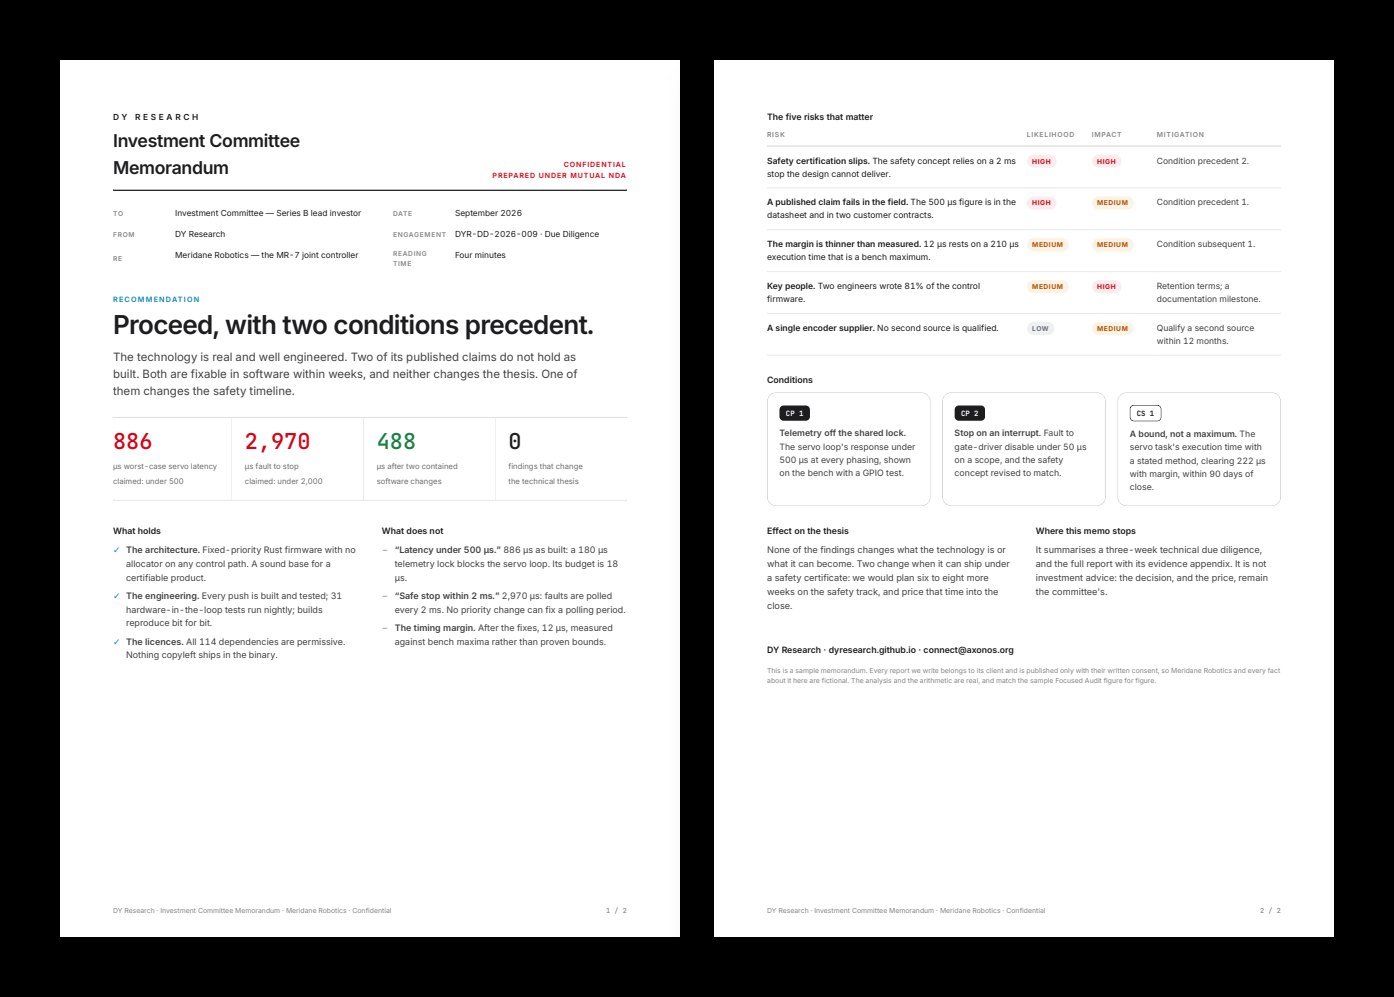
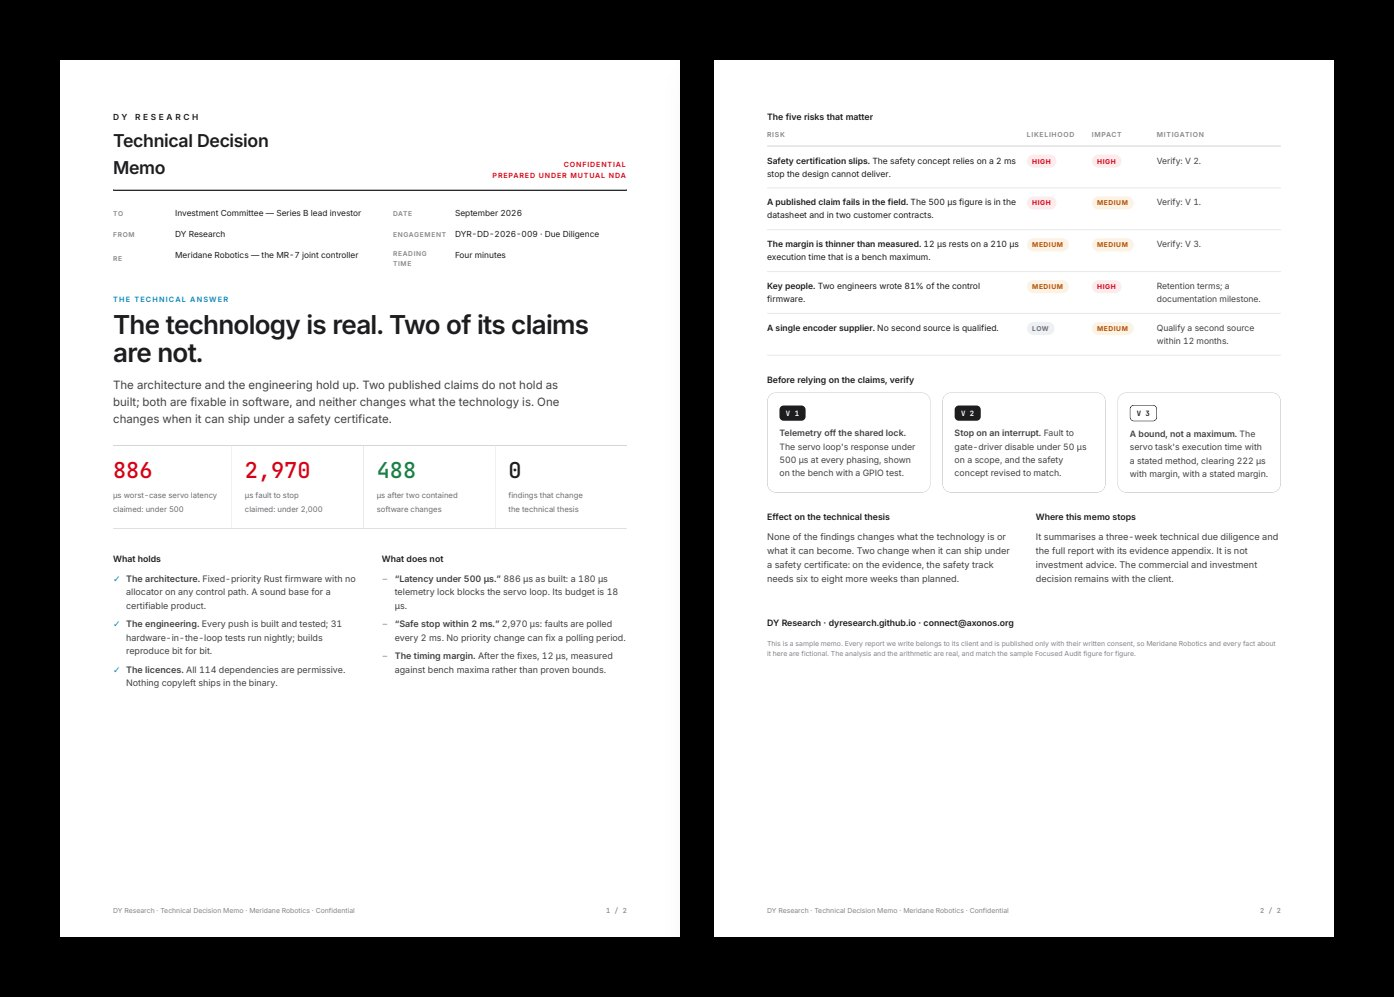
Site v2.0, first wave: the hero asks before it sells
The first screen now holds the method, not only the promise. "Can you spot
the failure?": two tasks and three answers, one of them "I need more
information", which is answered with the model's assumptions. Then a
harder case: utilisation under the Liu and Layland bound and a deadline
missed by 70 microseconds, because the bound assumes deadlines equal
periods. Every figure is DY-WCET's, and "See the proof" opens the working.

The sample memo is a technical decision memo. It no longer opens with
"proceed" or speaks of conditions precedent and pricing a close: it states
what the evidence establishes, what could invalidate the technical thesis
and what to verify, and that the commercial and investment decision
remains with the client.

The header and the phone's sticky button read "Bring a question".

diff --git a/index.html b/index.html
@@ -467,6 +467,30 @@ dialog.sheet::backdrop{background:rgba(0,0,0,.62);-webkit-backdrop-filter:blur(8
 .vows p{margin:0}
 .vows b{display:block;color:var(--text);font-weight:600;margin-bottom:2px}
 @media (prefers-reduced-motion:reduce){.sample img{transition:none}.sample:hover img{transform:none}}
+
+/* ── the hero's question: the method, before the pitch ───────────────── */
+.puzzle{max-width:600px;margin:clamp(26px,4vw,40px) auto clamp(22px,3vw,34px);text-align:left;border:1px solid var(--hair);border-radius:20px;padding:clamp(18px,3vw,28px);background:rgba(255,255,255,.025)}
+.pz-k{font-size:12px;letter-spacing:.12em;text-transform:uppercase;color:#2dd4ff;margin:0 0 14px}
+.pz-tasks{display:grid;grid-template-columns:minmax(0,1fr) minmax(0,1fr);gap:10px;margin-bottom:16px}
+.pz-tasks div{border:1px solid var(--hair);border-radius:12px;padding:12px 14px}
+.pz-tasks b{display:block;font-size:15px;color:var(--text)}
+.pz-tasks span{display:block;font-family:var(--mono);font-size:13px;color:var(--text-2);margin-top:4px}
+.pz-tasks em{display:block;font-style:normal;font-size:12px;color:var(--text-3);margin-top:4px}
+.pz-q{font-size:17px;line-height:1.4;color:var(--text);margin:0 0 12px;font-weight:600}
+.pz-opts{display:flex;flex-wrap:wrap;gap:8px}
+.pz-opts button,.pz-next{font:inherit;font-size:15px;padding:10px 16px;border-radius:999px;border:1px solid var(--hair);background:transparent;color:var(--text);cursor:pointer;transition:border-color .2s,background .2s,color .2s}
+.pz-opts button:hover{border-color:rgba(255,255,255,.45)}
+.pz-opts button.on{background:#f5f5f7;color:#000;border-color:#f5f5f7}
+.pz-out{margin-top:16px;border-top:1px solid var(--hair);padding-top:14px;color:var(--text-2);font-size:15px;line-height:1.55;animation:pzin .4s var(--ease)}
+.pz-out p{margin:0 0 8px}
+.pz-out pre{font-family:var(--mono);font-size:13px;color:var(--text);background:rgba(255,255,255,.04);border-radius:10px;padding:10px 12px;margin:10px 0;white-space:pre-wrap}
+.pz-bad{color:#ff6b6b}.pz-ok{color:#34d399}
+.pz-next{margin-top:6px;border-color:rgba(45,212,255,.5);color:#2dd4ff}
+.pz-lesson{color:var(--text)!important;font-weight:600;margin-top:12px!important}
+.pz-cta{display:flex;flex-wrap:wrap;gap:16px;align-items:center;margin-top:12px}
+@keyframes pzin{from{opacity:0;transform:translateY(6px)}to{opacity:1;transform:none}}
+@media (max-width:520px){.pz-tasks{grid-template-columns:minmax(0,1fr)}}
+@media (prefers-reduced-motion:reduce){.pz-out{animation:none}}
 </style>
 </head>
 <body>
@@ -489,7 +513,7 @@ dialog.sheet::backdrop{background:rgba(0,0,0,.62);-webkit-backdrop-filter:blur(8
       <a href="#for">Who it is for</a>
       <a href="#proof">Proof</a>
       <a href="#process">Process</a>
-      <a class="nav-cta" href="mailto:connect@axonos.org?subject=Engagement%20request" data-request="audit">Request an engagement</a>
+      <a class="nav-cta" href="mailto:connect@axonos.org?subject=Engagement%20request" data-request="audit">Bring a question</a>
     </div>
   </div>
 </nav>
@@ -504,6 +528,13 @@ dialog.sheet::backdrop{background:rgba(0,0,0,.62);-webkit-backdrop-filter:blur(8
     <p class="lead measure">Technical due diligence for investors, founders and engineering teams.
       Every claim a technology makes, traced to its code, its tests and its evidence —
       <b>and a written verdict on what holds.</b></p>
+    <div class="puzzle" id="puzzle">
+      <p class="pz-k">Can you spot the failure?</p>
+      <div class="pz-tasks"><div><b>Task A</b><span>C = 100 µs · T = 400 µs</span><em>higher priority</em></div><div><b>Task B</b><span>C = 200 µs · T = 1,000 µs</span></div></div>
+      <p class="pz-q">What is B&#8217;s worst-case response time?</p>
+      <div class="pz-opts" role="group" aria-label="Your answer"><button type="button" data-a="400">400 µs</button><button type="button" data-a="300">300 µs</button><button type="button" data-a="info">I need more information</button></div>
+      <div class="pz-out" aria-live="polite" hidden></div>
+    </div>
     <div class="actions">
       <a class="btn" href="#engagements">See the engagements</a>
       <a class="more" href="#process">How an engagement runs</a>
@@ -834,10 +865,10 @@ dialog.sheet::backdrop{background:rgba(0,0,0,.62);-webkit-backdrop-filter:blur(8
         <span class="more">Read the sample report</span>
       </a>
       <a class="sample reveal" href="/sample/dy-research-ic-memo-sample.pdf" target="_blank" rel="noopener">
-        <img src="/sample/preview-memo.jpg" width="1394" height="997" loading="lazy" alt="The sample investment-committee memorandum: Proceed, with two conditions precedent; the five risks that matter, with their likelihood and impact.">
-        <span class="sample-k">Due Diligence · investment committee memo · 2 pages</span>
-        <b>Proceed, with two conditions precedent.</b>
-        <span class="sample-d">What a committee reads before it decides: the recommendation, what holds and what does not, the five risks that matter, and the conditions of the close.</span>
+        <img src="/sample/preview-memo.jpg" width="1394" height="997" loading="lazy" alt="The sample technical decision memo: the technology is real, and two of its claims do not hold as built; the five risks that matter, with their likelihood and impact.">
+        <span class="sample-k">Due Diligence · technical decision memo · 2 pages</span>
+        <b>The technology is real. Two of its claims are not.</b>
+        <span class="sample-d">What a committee reads before it decides: what the evidence establishes, what could invalidate the technical thesis, and what to verify before relying on it. The decision stays with the committee.</span>
         <span class="more">Read the sample memo</span>
       </a>
     </div>
@@ -1015,7 +1046,7 @@ dialog.sheet::backdrop{background:rgba(0,0,0,.62);-webkit-backdrop-filter:blur(8
   </div>
 </footer>
 
-<a class="dock" href="mailto:connect@axonos.org?subject=Engagement%20request" data-request="audit" aria-hidden="true" tabindex="-1">Request an engagement</a>
+<a class="dock" href="mailto:connect@axonos.org?subject=Engagement%20request" data-request="audit" aria-hidden="true" tabindex="-1">Bring a question</a>
 
 <!-- ═══ REQUEST SHEET ═══════════════════════════════════════════════════ -->
 <dialog class="sheet" id="req" aria-labelledby="req-title">
@@ -1203,6 +1234,45 @@ dialog.sheet::backdrop{background:rgba(0,0,0,.62);-webkit-backdrop-filter:blur(8
     entries.forEach(function (en) { if (en.isIntersecting) { en.target.classList.add("in"); io.unobserve(en.target); } });
   }, { rootMargin: "0px 0px -8% 0px", threshold: 0.08 });
   els.forEach(function (e) { io.observe(e); });
+})();
+</script>
+<script>
+/* The hero's question. Every figure is DY-WCET's, and /wcet/ shows the working. */
+(function () {
+  var root = document.getElementById("puzzle"); if (!root) return;
+  var out = root.querySelector(".pz-out"), stage = 1;
+  var fin = '<p class="pz-lesson">A plausible answer can be wrong in the direction that matters most.</p>' +
+    '<div class="pz-cta"><a class="btn" href="/wcet/#trap">See the proof</a>' +
+    '<a class="more" href="mailto:connect@axonos.org?subject=A%20system%20to%20investigate" data-request="audit">Give me a system to investigate</a></div>';
+  var next = '<button type="button" class="pz-next" data-a="harder">Now make it harder &#8594;</button>';
+  function show(html) { out.innerHTML = html; out.hidden = false; }
+  function harder() {
+    stage = 2;
+    root.querySelector(".pz-tasks").innerHTML = '<div><b>Task B</b><span>C = 40 µs · T = 60 µs</span><em>higher priority</em></div>' +
+      '<div><b>Task A</b><span>C = 50 µs · T = 1,000 µs</span><em>deadline 100 µs</em></div>';
+    root.querySelector(".pz-q").innerHTML = 'Utilisation is 0.717, under the 0.828 bound for two tasks. Does A meet its deadline?';
+    root.querySelector(".pz-opts").innerHTML = '<button type="button" data-a="yes">Yes, it is under the bound</button><button type="button" data-a="no">No</button>';
+    out.hidden = true; out.innerHTML = "";
+    var f = root.querySelector(".pz-opts button"); if (f) f.focus();
+  }
+  root.addEventListener("click", function (e) {
+    var req = e.target.closest ? e.target.closest("a[data-request]") : null;
+    if (req) { var nav = document.querySelector(".nav-cta[data-request]"); if (nav) { e.preventDefault(); nav.click(); } return; }
+    var b = e.target.closest ? e.target.closest("button") : null; if (!b) return;
+    var a = b.getAttribute("data-a");
+    if (a === "harder") { harder(); return; }
+    root.querySelectorAll(".pz-opts button").forEach(function (x) { x.classList.toggle("on", x === b); });
+    if (stage === 1) {
+      if (a === "400") show('<p><b class="pz-bad">Plausible. Wrong.</b> It counts A once per period of B. A interferes once for every release that falls inside B&#8217;s response.</p>' +
+        '<pre>R = 200\nR = 200 + &#8968;200/400&#8969;&#183;100 = 300\nR = 200 + &#8968;300/400&#8969;&#183;100 = 300   &#8592; fixed point</pre>' + next);
+      else if (a === "300") show('<p><b class="pz-ok">Correct: 300 &#181;s.</b> A can interfere only as often as it is released inside B&#8217;s response window.</p>' + next);
+      else show('<p><b>A fair instinct.</b> Fixed priority, preemptive, one core, A above B, deadlines equal to periods, no blocking, no jitter. Now choose.</p>');
+    } else {
+      if (a === "yes") show('<p><b class="pz-bad">Plausible. Wrong, in the direction that matters.</b> The bound assumes every deadline equals its period. A&#8217;s is 100 &#181;s, not 1,000, and its worst-case response is 170 &#181;s.</p>' +
+        '<pre>R = 50 &#8594; 90 &#8594; 130 &#8594; 170 &#8594; 170</pre>' + fin);
+      else show('<p><b class="pz-ok">Correct: 170 &#181;s against 100.</b> The utilisation bound does not apply when a deadline is shorter than its period.</p>' + fin);
+    }
+  });
 })();
 </script>
 </body>
